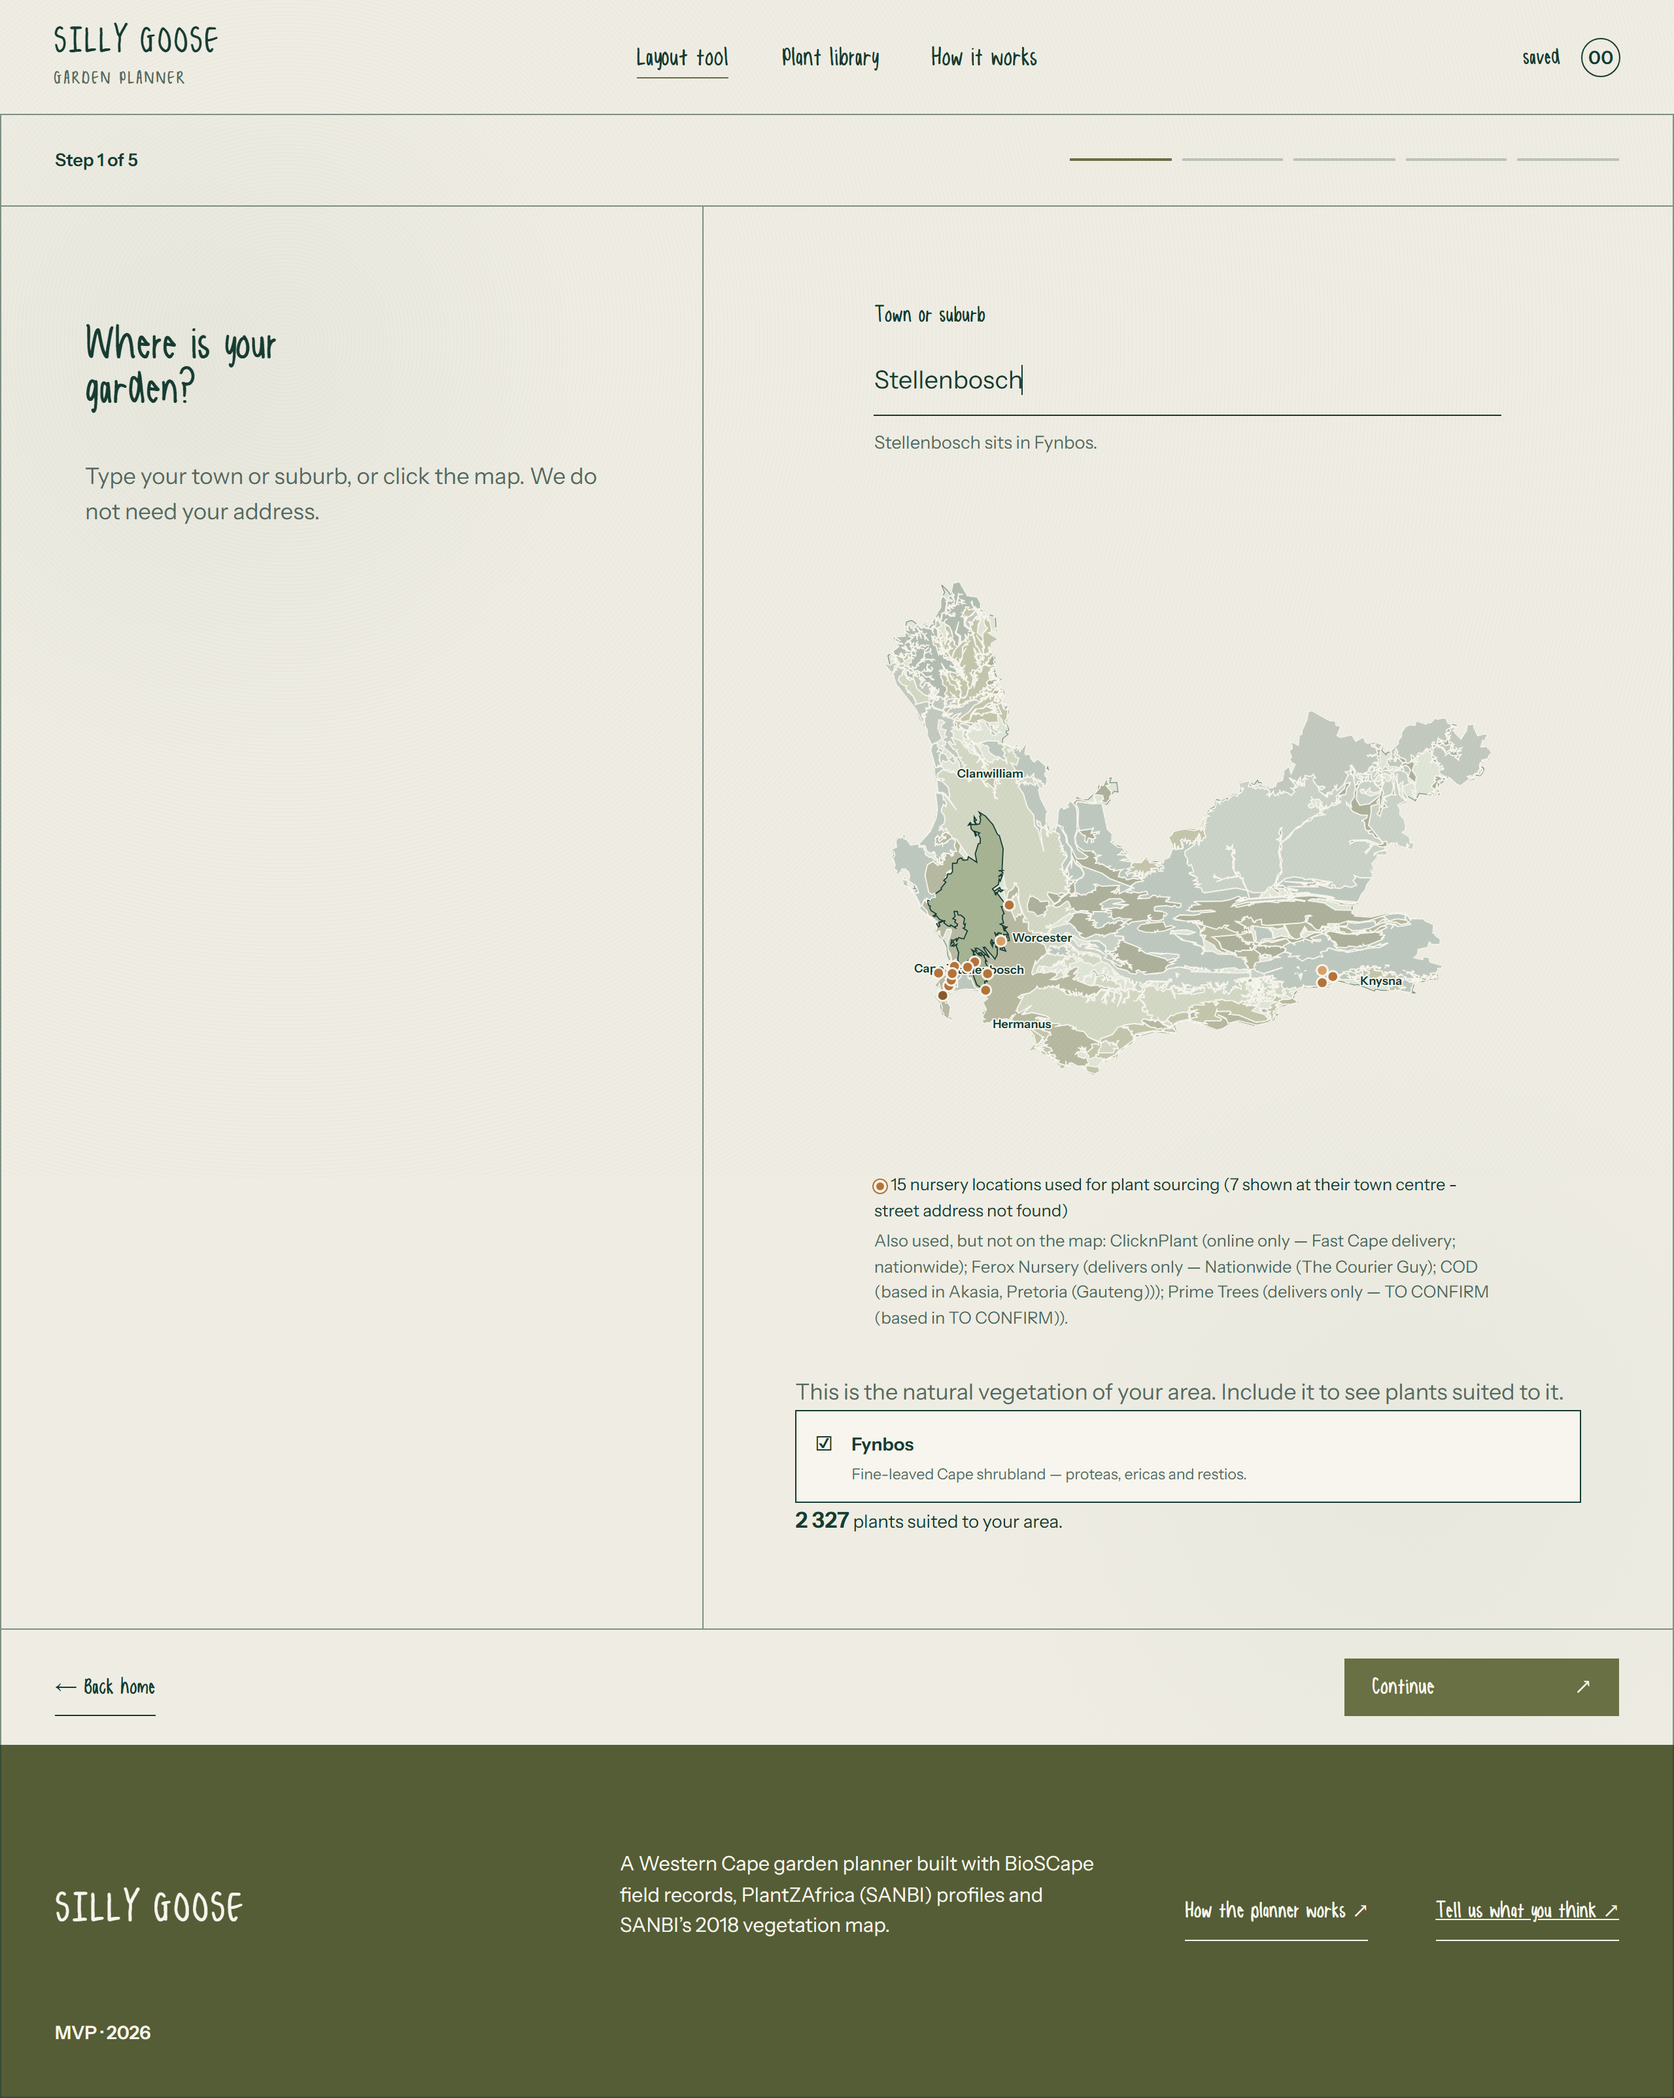
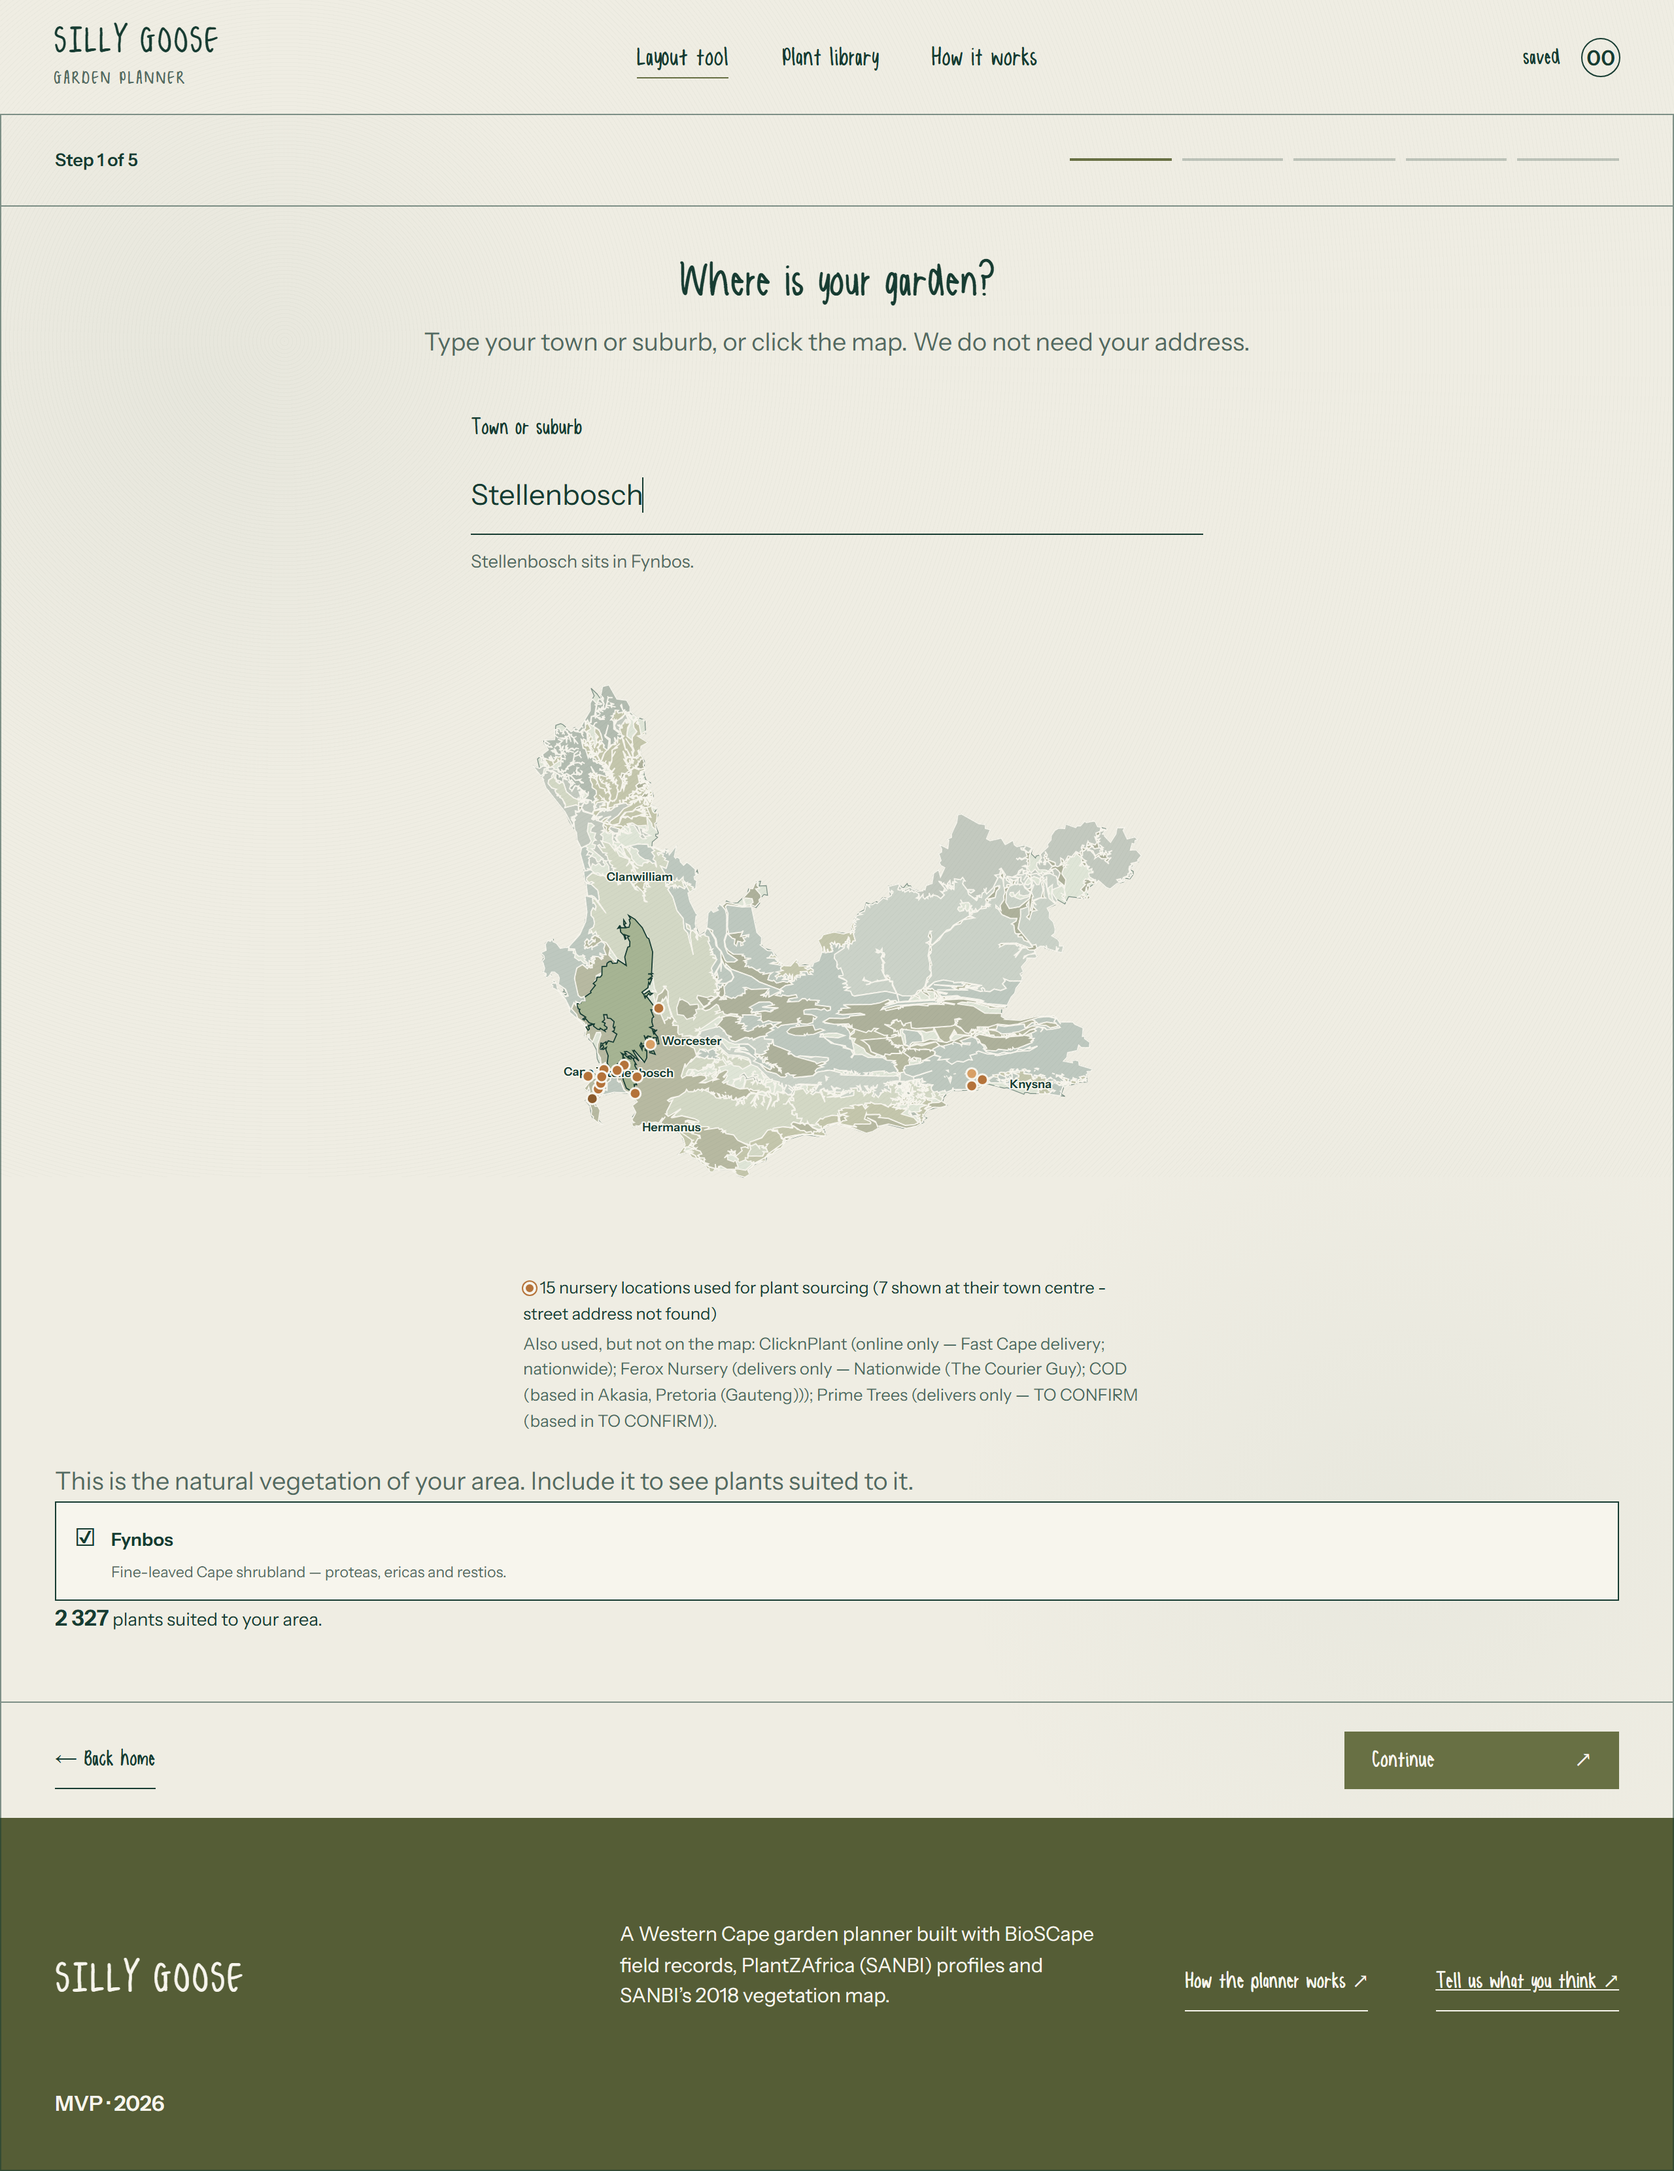
Restack the brief, and make the three options read as a choice
The split screen is gone. Every step is now question, one line of help,
then the answers across the full width - one reading order, top to
bottom. The owner's complaint was that by the time someone reached the
bottom of the answers they had forgotten the question, and a left-hand
column they had to look back at was the cause.

Step 1 gives the map the room: a short question, the search box, then
the map, then the vegetation types that appear once a place is picked.
Step 2 puts sun, water, soil and wind in four blocks side by side, so
the whole question is one screenful instead of a scroll. Step 4 does
the same for style and colour. The bed step keeps its drawing, centred
under the question rather than squeezed beside it.

The three options stay as tabs - one bed at a time, which is what makes
them comparable - but they now read as a choice: a bordered card each,
carrying the name, the two figures and the line about how it differs,
with the selected one marked by a heavier olive border, a tinted
background and a tick.

The drawer's close no longer shares a line with Quantity. The drawer
has its own title bar - "Plants in this bed" and the close on one line,
the column headings on the next - and the columns are now "Plant" and
"How many" rather than the shorter labels that sat under the cross.

One bug introduced and fixed in the same pass: setting the two-line
question spans to inline removed the line break and the space with it,
giving "Where is yourgarden?".
[…]

diff --git a/app/globals.css b/app/globals.css
@@ -5103,18 +5103,44 @@ body {
   writing-mode: horizontal-tb;
 }
 
-/* The drawer close sat on top of the Quantity heading, so the cross
-   looked like it belonged to the column rather than the panel. */
-.plan-legend-heading {
-  padding-right: 52px;
+/* The close sat on the Quantity heading, so it read as belonging to
+   that column. The drawer now has its own title bar: the panel's name
+   and its close on one line, the column headings on the next. */
+.plan-drawer-bar {
+  display: flex;
+  align-items: center;
+  justify-content: space-between;
+  gap: 16px;
+  padding-bottom: 12px;
+  margin-bottom: 12px;
+  border-bottom: 1px solid var(--line);
+}
+
+.plan-drawer-bar h3 {
+  margin: 0;
+  font-size: 1.3rem;
 }
 
 .plan-drawer-close {
-  top: -14px;
-  right: -10px;
-  border: 1px solid var(--line);
+  position: static;
+  display: grid;
+  flex: none;
+  width: 44px;
+  height: 44px;
+  border: 1px solid var(--line-strong);
   border-radius: 50%;
   background: var(--paper);
+  font-size: 1.4rem;
+  line-height: 1;
+  place-items: center;
+}
+
+.plan-drawer-close:hover {
+  background: var(--paper-deep);
+}
+
+.plan-legend-heading {
+  padding-right: 0;
 }
 
 /* Renaming a garden is naming it, so it is typed in the hand. */
@@ -5122,4 +5148,206 @@ body {
   font-family: var(--font-hand);
   font-size: 1.25rem;
   font-synthesis: none;
+}
+
+/* =====================================================================
+   THE BRIEF, RESTACKED (owner walkthrough, 2026-10-11)
+   =====================================================================
+   The split screen put the question in a left column and the answers in
+   a right one. By the time someone reached the bottom of the answers
+   they had lost the question - the owner's words, and the clearest
+   usability problem on the app.
+
+   Every step is now: question, one short line of help, then the answers
+   across the full width. One reading order, top to bottom, no column to
+   jump back to. */
+
+.finder-panel,
+.finder-panel.is-wide {
+  display: block;
+}
+
+.finder-question {
+  padding: clamp(28px, 3.2vw, 44px) clamp(24px, 3.2vw, 56px) clamp(10px, 1.4vw, 18px);
+  border-right: 0;
+  text-align: center;
+}
+
+.finder-panel.is-wide .finder-question {
+  padding: clamp(28px, 3.2vw, 44px) clamp(24px, 3.2vw, 56px) clamp(10px, 1.4vw, 18px);
+}
+
+.finder-question h1,
+.finder-panel.is-wide .finder-question h1 {
+  /* A question, not a poster. It has to sit above the answers without
+     pushing them off the screen. */
+  max-width: 24ch;
+  margin-inline: auto;
+  font-size: clamp(1.9rem, 3.2vw, 2.9rem);
+  line-height: 1.05;
+}
+
+.finder-question > p:last-child {
+  max-width: 62ch;
+  margin: 14px auto 0;
+  font-size: var(--text-md);
+}
+
+/* These were two blocks forming two lines. Inline lets the question
+   wrap naturally above the answers, but inline elements carry no
+   whitespace between them, which ran "your" into "garden". */
+.question-two-lines span {
+  display: inline;
+  white-space: normal;
+}
+
+.question-two-lines span + span::before {
+  content: " ";
+  white-space: pre;
+}
+
+.finder-choices {
+  padding: clamp(10px, 1.6vw, 22px) clamp(24px, 3.2vw, 56px) clamp(32px, 4vw, 56px);
+  place-items: start stretch;
+}
+
+/* Four conditions, four blocks, side by side on a wide screen so the
+   whole of step 2 is one screenful instead of a long scroll. */
+.site-conditions {
+  display: grid;
+  grid-template-columns: repeat(auto-fit, minmax(260px, 1fr));
+  gap: 20px;
+  align-items: start;
+}
+
+.site-conditions > fieldset {
+  padding: 18px 20px 20px;
+  border: 1px solid var(--line);
+  border-radius: 10px;
+  background: var(--paper-light);
+}
+
+.site-conditions .choice-grid,
+.site-conditions .choice-grid.two-column {
+  grid-template-columns: minmax(0, 1fr);
+  gap: 8px;
+}
+
+.site-conditions .field-help {
+  margin-bottom: 12px;
+}
+
+/* The survivor count belongs under the four blocks, not inside one. */
+.site-conditions > .filter-count {
+  grid-column: 1 / -1;
+}
+
+/* Style and colour sit side by side for the same reason. */
+.choice-stack.preference-blocks {
+  grid-template-columns: repeat(auto-fit, minmax(320px, 1fr));
+  display: grid;
+  gap: 20px;
+  align-items: start;
+}
+
+/* Step 1 gives the map the room: the question is one short line above
+   it, and the map is what the gardener actually points at. */
+.place-step {
+  display: grid;
+  gap: 18px;
+}
+
+.place-step .bioregion-map,
+.place-step figure {
+  width: 100%;
+}
+
+/* Step 1: the map is the answer, so it gets the room. The search box
+   sits above it as one short line, and the vegetation types below,
+   where they appear once a place has been picked. */
+.place-step .place-combobox {
+  max-width: 560px;
+  margin-inline: auto;
+  width: 100%;
+}
+
+.place-step .bioregion-map-svg {
+  width: 100%;
+  height: auto;
+  max-height: 60vh;
+}
+
+.place-step .bioregion-map {
+  margin-inline: auto;
+  max-width: 1000px;
+}
+
+/* The bed step keeps its drawing, now under the question rather than
+   beside it, and centred. */
+.bed-controls {
+  display: grid;
+  grid-template-columns: repeat(auto-fit, minmax(240px, 1fr));
+  gap: 20px;
+  align-items: start;
+}
+
+.bed-preview {
+  grid-column: 1 / -1;
+  justify-self: center;
+  width: min(100%, 560px);
+}
+
+/* The three options: still one bed at a time, but the choice reads as a
+   choice. Each tab carries its name, its two figures and the one line
+   saying how it differs, and the selected one is unmistakable - the
+   gardener should never have to work out which they are looking at. */
+.plan-layout-column .variant-tabs {
+  gap: 12px;
+  margin-bottom: 6px;
+}
+
+.variant-tab {
+  display: grid;
+  align-content: start;
+  gap: 4px;
+  padding: 14px 16px;
+  border: 1.5px solid var(--line);
+  border-radius: 10px;
+  background: var(--paper-light);
+  text-align: left;
+}
+
+.variant-tab:hover {
+  border-color: var(--line-strong);
+}
+
+.variant-tab.is-selected {
+  border-color: var(--olive);
+  border-width: 2px;
+  background: color-mix(in srgb, var(--olive) 9%, var(--paper-light));
+}
+
+.variant-tab strong {
+  font-size: 1.25rem;
+}
+
+.variant-tab.is-selected strong::after {
+  content: " ✓";
+  color: var(--olive);
+}
+
+.variant-tab small {
+  color: var(--ink-soft);
+  font-family: var(--sans);
+  font-size: var(--text-xs);
+}
+
+.variant-tab em {
+  font-size: var(--text-xs);
+}
+
+@media (max-width: 760px) {
+  .plan-layout-column .variant-tabs {
+    grid-template-columns: minmax(0, 1fr);
+  }
 }

diff --git a/app/components/GardenApp.tsx b/app/components/GardenApp.tsx
@@ -1238,7 +1238,7 @@ function FinderView({
       title: "Where is your garden?",
       note: "Type your town or suburb, or click the map. We do not need your address.",
       content: (
-        <div className="choice-stack">
+        <div className="choice-stack place-step">
           <PlaceCombobox
             onChange={(place) => {
               setSelectedPlace(place);
@@ -1458,7 +1458,7 @@ function FinderView({
       title: "What should the garden feel like?",
       note: "These are preferences, not rules. Nothing here removes a plant from your list — it only changes what we put first.",
       content: (
-        <div className="choice-stack">
+        <div className="choice-stack preference-blocks">
           <fieldset>
             <legend>Style</legend>
             <div className="choice-grid two-column">
@@ -2400,17 +2400,20 @@ function PlanSummary({
           className={`plan-legend${plantsOpen ? " is-open" : ""}`}
           aria-hidden={!plantsOpen}
         >
-          <div className="plan-legend-heading">
+          <div className="plan-drawer-bar">
+            <h3>Plants in this bed</h3>
             <button
               type="button"
               className="plan-drawer-close"
               onClick={() => setPlantsOpen(false)}
               aria-label="Close the plant list"
             >
-              ×
+              <span aria-hidden="true">×</span>
             </button>
-            <span>Plants</span>
-            <span>Quantity</span>
+          </div>
+          <div className="plan-legend-heading">
+            <span>Plant</span>
+            <span>How many</span>
           </div>
           {species.map(({ plant, quantity }) => (
             <div key={quantity.id} className="plan-legend-item">
